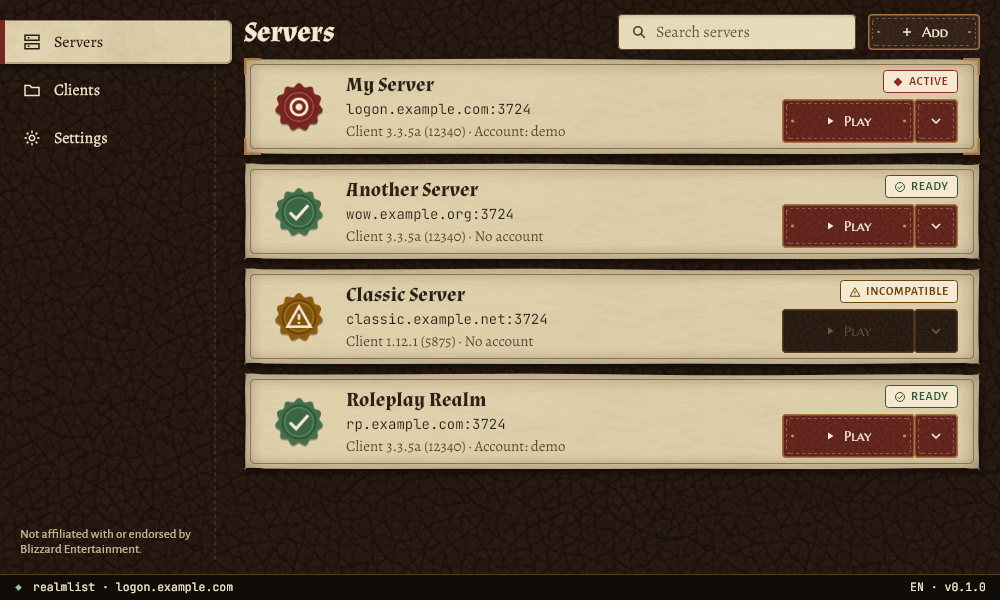
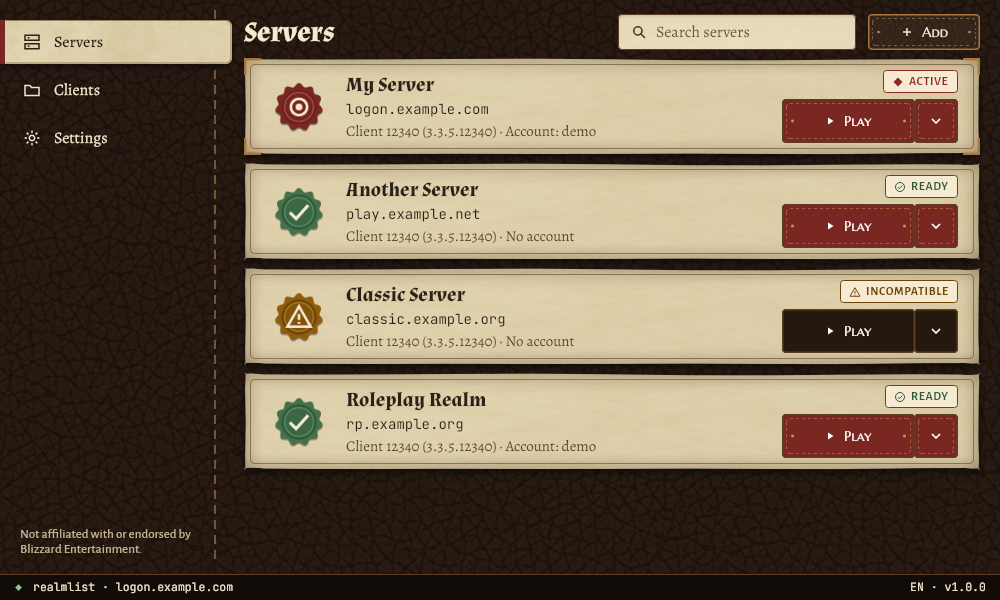
docs: add current v1.0.0 Servers screenshot to README

diff --git a/README.es.md b/README.es.md
@@ -13,6 +13,8 @@
   <a href="LICENSE"><img src="https://img.shields.io/badge/license-MIT-blue.svg" alt="Licencia: MIT"></a>
 </p>
 
+<p align="center"><img src="docs/screenshots/servers.png" alt="Pantalla de servidores de Realm Portal (interfaz en inglés) con cuatro servidores de ejemplo, cada uno con su botón Play" width="800"></p>
+
 ## Qué hace
 
 Realm Portal es una aplicación de escritorio para servidores privados de World of Warcraft. Registra los servidores en los que juegas (nombre, dirección, reino, cuenta y build de cliente requerida), busca clientes del juego en tu equipo y apunta el cliente que elijas al servidor que selecciones.

diff --git a/README.md b/README.md
@@ -13,6 +13,8 @@
   <a href="LICENSE"><img src="https://img.shields.io/badge/license-MIT-blue.svg" alt="License: MIT"></a>
 </p>
 
+<p align="center"><img src="docs/screenshots/servers.png" alt="Realm Portal Servers screen with four example servers (My Server, Another Server, Classic Server and Roleplay Realm), each with a Play button" width="800"></p>
+
 ## What it does
 
 Realm Portal is a desktop application for World of Warcraft private servers. It registers the servers you play on (name, address, realm, account and required client build), scans your computer for game clients, and points the selected client at the server you choose.
